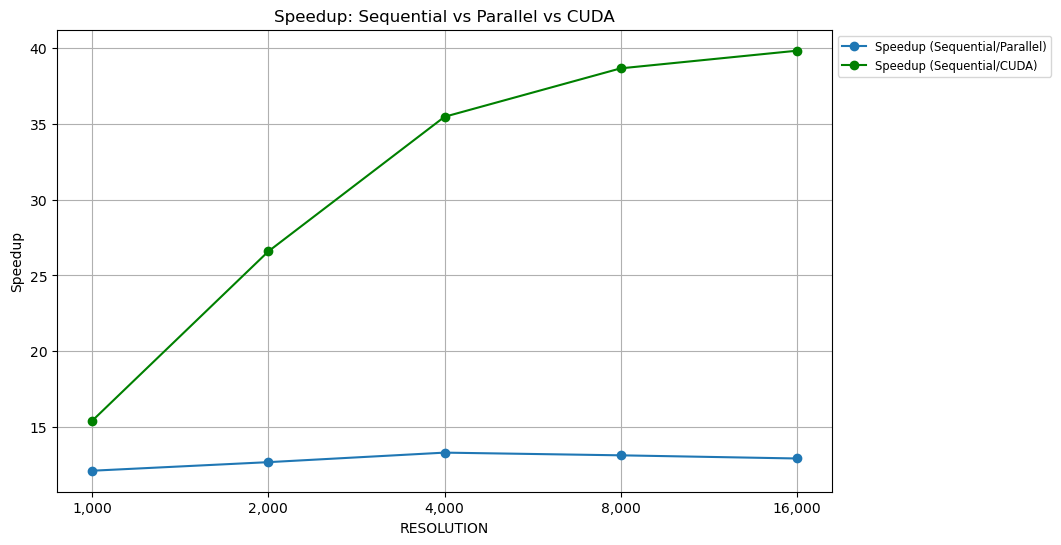
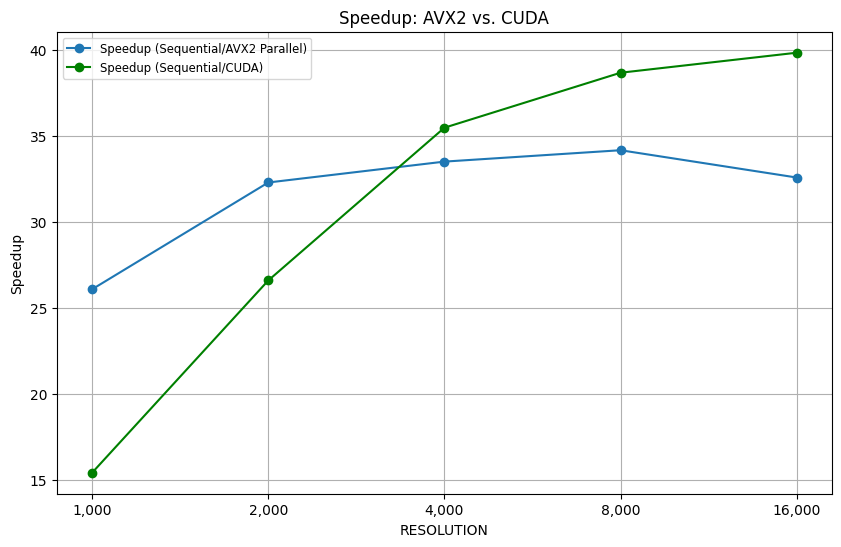
Update image file permissions and enhance report with new performance visuals

diff --git a/mandelbrot/report/report.md b/mandelbrot/report/report.md
@@ -535,9 +535,19 @@ For our experiments, we selected different values for `RESOLUTION`, as the whole
 
 <div style="display: flex; justify-content: center; align-items: center; width: 100%;">
   <figure style="display: flex; flex-direction: column; justify-content: center; align-items: center;">
-  <img src="./images/exec_time.png" alt="OMP" width="100%" />
+  <img src="./images/cpu_hotspot_time.png" alt="OMP" width="100%" />
   </figure>
 </div>
+
+We see that the hotspot time covers almost the totality of the execution time, but, for large `RESOLUTION` values, there seem to be a larger gap due to context switch of the threads.
+
+<div style="display: flex; justify-content: center; align-items: center; width: 100%;">
+  <figure style="display: flex; flex-direction: column; justify-content: center; align-items: center;">
+  <img src="./images/cpu_gpu_time.png" alt="OMP" width="100%" />
+  </figure>
+</div>
+
+In the same way, comparing the different versions of the algorithm, the gap between the performances enlarges for `RESOLUTION` growing.
 
 <div style="display: flex; justify-content: center; align-items: center; width: 100%;">
   <figure style="display: flex; flex-direction: column; justify-content: center; align-items: center;">
@@ -545,7 +555,11 @@ For our experiments, we selected different values for `RESOLUTION`, as the whole
   </figure>
 </div>
 
-### Sequential data 📊
+This is the most interesting plot, because we see that, at a certain point (`RESOLUTION` $\approx 3200$), the CUDA version surpasses the CPU version. We also highlight that, for the CUDA version, the speedup keeps growing, while for the CPU version there is a value for which the speedup starts decreasing.
+
+## Data tables
+
+### Sequential data
 
 | RESOLUTION | Time (s) | Hotspot Time (s) |
 | :--------: | :------: | :--------------: |
@@ -555,17 +569,17 @@ For our experiments, we selected different values for `RESOLUTION`, as the whole
 |   8,000    |  216.93  |      216.41      |
 |   16,000   |  867.14  |      866.97      |
 
-### Parallel data 🛤
+### AVX2 parallel data
 
 | RESOLUTION | Time (s) | Hotspot Time (s) |
 | :--------: | :------: | :--------------: |
-|   1,000    |   0.28   |       0.23       |
-|   2,000    |   1.07   |       0.93       |
-|   4,000    |   4.08   |       3.85       |
-|   8,000    |  16.53   |      15.65       |
-|   16,000   |  67.14   |      63.82       |
+|   1,000    |   0.13   |       0.09       |
+|   2,000    |   0.42   |       0.37       |
+|   4,000    |   1.62   |       1.47       |
+|   8,000    |   6.35   |       5.85       |
+|   16,000   |  26.62   |      23.63       |
 
-### CUDA data ⏩
+### CUDA data
 
 | RESOLUTION | Time (s) |
 | :--------: | :------: |
@@ -575,7 +589,15 @@ For our experiments, we selected different values for `RESOLUTION`, as the whole
 |   8,000    |   5.61   |
 |   16,000   |  21.77   |
 
-We immediately see an abrupt change performance-wise in the CUDA version, reaching a speedup of $\approx 40\texttt{x}$ at the maximum `RESOLUTION`. Time-wise, a sequential execution of about $\approx$ **14 minutes** became a CUDA exection of $\approx$ **20 seconds**
+### Speedup data
+
+| RESOLUTION | AVX2 parallel Speedup | CUDA Speedup |
+| :--------: | :-------------------: | :----------: |
+|   1,000    |         26.08         |    15.41     |
+|   2,000    |         32.29         |    26.59     |
+|   4,000    |         33.50         |    35.47     |
+|   8,000    |         34.16         |    38.67     |
+|   16,000   |         32.57         |    39.83     |
 
 # Conclusions 🔚
 
